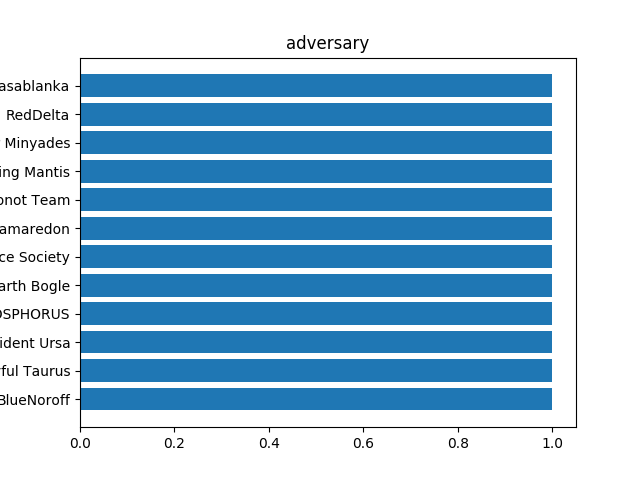
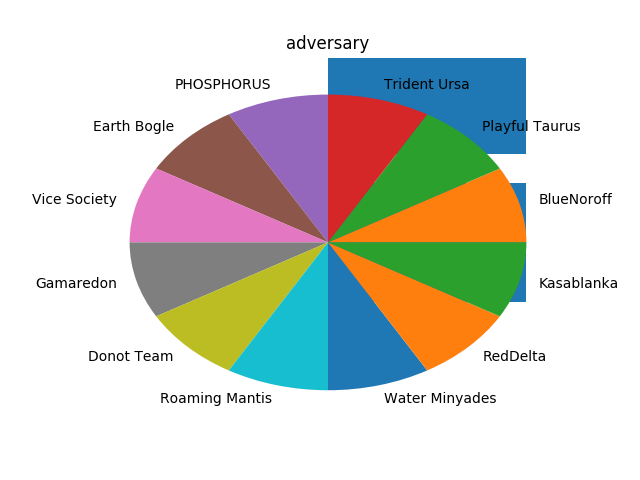
Added new diagram for adversary and tags

diff --git a/SBES/app.py b/SBES/app.py
@@ -4,6 +4,7 @@ findspark.init()
 from pyspark.sql import SparkSession
 import numpy as np
 import matplotlib.pyplot as plt
+import pandas as pd
 
 # Create a SparkSession
 spark = SparkSession.builder.appName("AlienVault").getOrCreate()
@@ -51,6 +52,13 @@ if response.status_code == 200:
         plt.title(parameter)
         plt.savefig(parameter+'.png')
 
+    def pandas(dict, parameter):
+        group_data = list(dict.values())
+        group_names = list(dict.keys())
+        plt.pie(group_data, labels=group_names)
+        plt.title(parameter)
+        plt.savefig(parameter+'.png')
+        
         
     def display_data(parameter):
         rows = spark.sql('select '+parameter+' from pulse').collect()
@@ -81,7 +89,7 @@ if response.status_code == 200:
             else:
                 dict[value] = 1
         print(dict)
-        plot(dict, "adversary")
+        pandas(dict, "adversary")
 
 
     def display_data_tags():
@@ -104,7 +112,7 @@ if response.status_code == 200:
             dict[tuple[0]] = tuple[1]
 
         print(dict)
-        plot(dict,"tags")
+        pandas(dict,"tags")
 
     
     '''def malware_families_in_targeted_country():
@@ -141,6 +149,7 @@ if response.status_code == 200:
                     
     '''
 
+    
     #TARGETED COUNTRIES
     display_data("targeted_countries")
     
